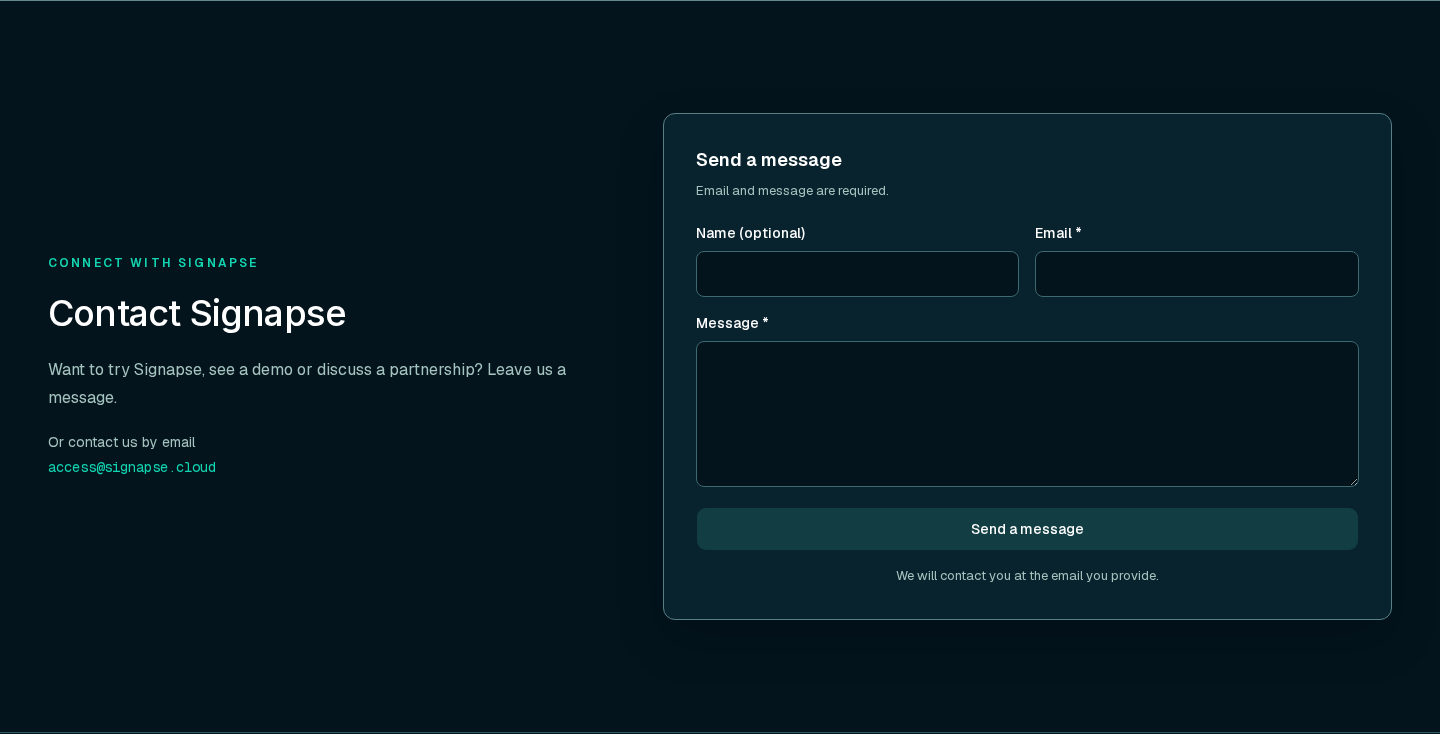
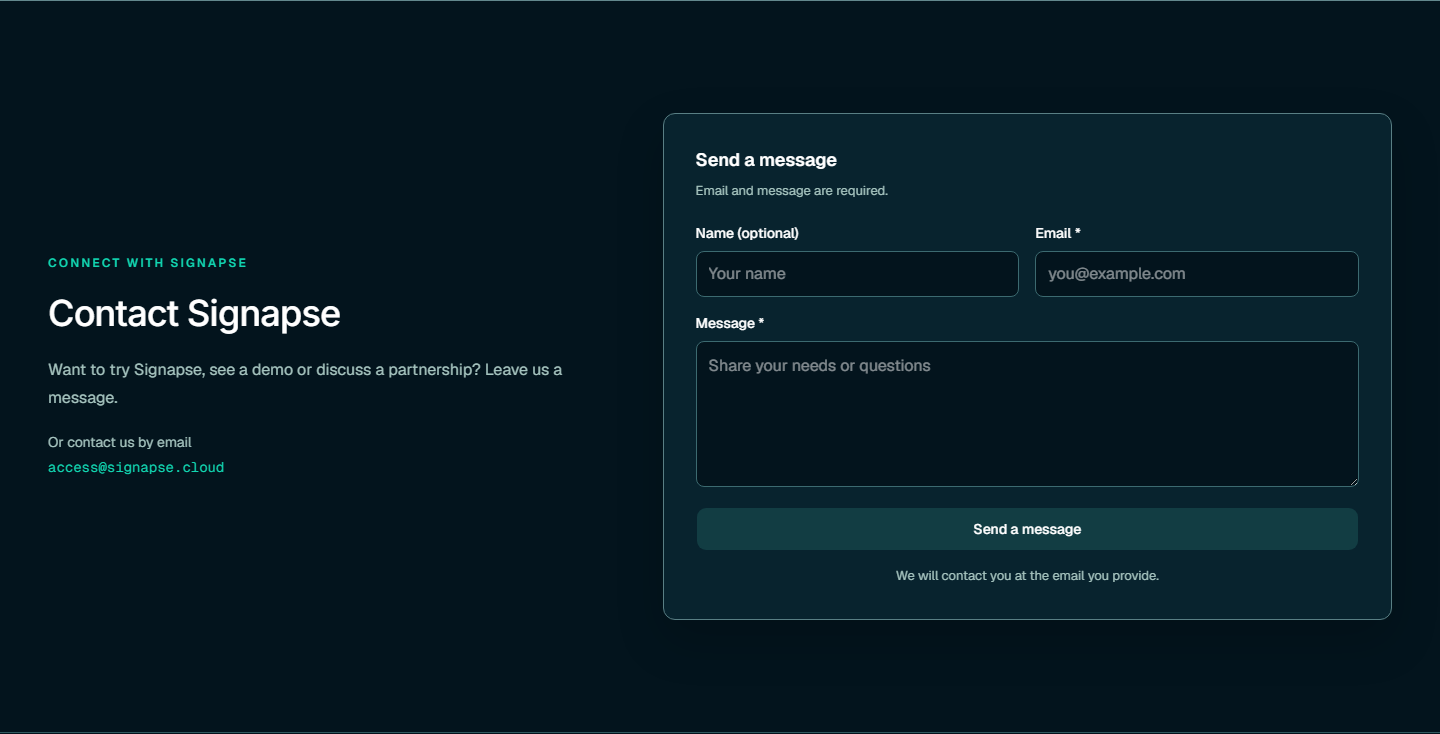
feat: update contact form placeholders and add design implementation rules

diff --git a/tests/e2e/landing.spec.ts b/tests/e2e/landing.spec.ts
@@ -38,8 +38,11 @@ const contactCopy = {
   vi: {
     title: 'Gửi lời nhắn',
     name: 'Tên (không bắt buộc)',
+    namePlaceholder: 'Tên của bạn',
     email: 'Email *',
+    emailPlaceholder: 'ban@example.com',
     message: 'Lời nhắn *',
+    messagePlaceholder: 'Chia sẻ nhu cầu hoặc câu hỏi của bạn',
     required: 'Email và lời nhắn là bắt buộc.',
     emptyMessage: 'Vui lòng nhập lời nhắn.',
     invalidEmail: 'Vui lòng nhập địa chỉ email hợp lệ.',
@@ -57,8 +60,11 @@ const contactCopy = {
   en: {
     title: 'Send a message',
     name: 'Name (optional)',
+    namePlaceholder: 'Your name',
     email: 'Email *',
+    emailPlaceholder: 'you@example.com',
     message: 'Message *',
+    messagePlaceholder: 'Share your needs or questions',
     required: 'Email and message are required.',
     emptyMessage: 'Please enter a message.',
     invalidEmail: 'Please enter a valid email address.',
@@ -966,6 +972,7 @@ for (const locale of ['vi', 'en'] as const) {
     await openContactForm(page, locale);
 
     const section = page.locator('#access');
+    const name = page.getByLabel(copy.name, { exact: true });
     const email = page.getByLabel(copy.email, { exact: true });
     const message = page.getByLabel(copy.message, { exact: true });
     const submit = page.getByRole('button', { name: copy.title, exact: true });
@@ -974,15 +981,18 @@ for (const locale of ['vi', 'en'] as const) {
       locale === 'vi' ? 'Liên hệ với Signapse' : 'Contact Signapse',
     );
     await expect(page.getByRole('heading', { name: copy.title })).toBeVisible();
-    await expect(page.getByLabel(copy.name, { exact: true })).toHaveValue('');
+    await expect(name).toHaveValue('');
     await expect(email).toHaveValue('');
     await expect(message).toHaveValue('');
+    await expect(name).toHaveAttribute('placeholder', copy.namePlaceholder);
+    await expect(email).toHaveAttribute('placeholder', copy.emailPlaceholder);
+    await expect(message).toHaveAttribute(
+      'placeholder',
+      copy.messagePlaceholder,
+    );
     await expect(email).toHaveAttribute('maxlength', '254');
     await expect(email).toHaveAttribute('required', '');
-    await expect(page.getByLabel(copy.name, { exact: true })).toHaveAttribute(
-      'maxlength',
-      '100',
-    );
+    await expect(name).toHaveAttribute('maxlength', '100');
     await expect(message).toHaveAttribute('maxlength', '5000');
     await expect(section).toContainText(copy.required);
 

diff --git a/src/i18n/messages.ts b/src/i18n/messages.ts
@@ -421,8 +421,11 @@ export const vi = {
       formTitle: 'Gửi lời nhắn',
       submit: 'Gửi lời nhắn',
       nameLabel: 'Tên (không bắt buộc)',
+      namePlaceholder: 'Tên của bạn',
       emailLabel: 'Email *',
+      emailPlaceholder: 'ban@example.com',
       messageLabel: 'Lời nhắn *',
+      messagePlaceholder: 'Chia sẻ nhu cầu hoặc câu hỏi của bạn',
       requiredFields: 'Email và lời nhắn là bắt buộc.',
       intent: 'Chúng tôi sẽ liên hệ qua email bạn cung cấp.',
       submitting: 'Đang gửi…',
@@ -891,8 +894,11 @@ export const en: Dictionary = {
       formTitle: 'Send a message',
       submit: 'Send a message',
       nameLabel: 'Name (optional)',
+      namePlaceholder: 'Your name',
       emailLabel: 'Email *',
+      emailPlaceholder: 'you@example.com',
       messageLabel: 'Message *',
+      messagePlaceholder: 'Share your needs or questions',
       requiredFields: 'Email and message are required.',
       intent: 'We will contact you at the email you provide.',
       submitting: 'Sending…',

diff --git a/src/components/landing/landing-contact-form.tsx b/src/components/landing/landing-contact-form.tsx
@@ -201,6 +201,7 @@ export function LandingContactForm({
                 name="name"
                 type="text"
                 autoComplete="name"
+                placeholder={copy.namePlaceholder}
                 maxLength={producerLimits.name}
                 value={name}
                 aria-invalid={Boolean(errors.name)}
@@ -230,6 +231,7 @@ export function LandingContactForm({
                 type="email"
                 autoComplete="email"
                 inputMode="email"
+                placeholder={copy.emailPlaceholder}
                 maxLength={producerLimits.email}
                 required
                 value={email}
@@ -266,6 +268,7 @@ export function LandingContactForm({
               id="contact-message"
               name="message"
               rows={5}
+              placeholder={copy.messagePlaceholder}
               maxLength={producerLimits.message}
               required
               value={message}

diff --git a/docs/design.md b/docs/design.md
@@ -1,0 +1,197 @@
+# Quy tắc thiết kế cho implementation landing
+
+Tài liệu tổng hợp rule UI của `signapse-landing`, dùng khi triển khai hoặc review visual, layout, interaction và copy. Khảo sát ngày **2026-10-07** trên landing `8c5bd7d`, planning `5d0fb67` và FE `signapse-ui` `5393a49`.
+
+Đặt tại `docs/design.md` để đi cùng [architecture](architecture.md) và [verification](verification/README.md). Đây là tài liệu thực thi; requirement/design, Pen, copy contract và ADR vẫn thuộc planning. Các bảng số đo bên dưới ghi nhận source hiện hành, không tự tạo contract mới hoặc chứng nhận mọi state đã được kiểm thử.
+
+## Nguồn và cách áp dụng
+
+| Nguồn | Vai trò |
+| --- | --- |
+| [Landing contract](../../signapse-planing/ui-design/references/landing/LANDING.md) | Quy tắc được duy trì tại planning về composition, navigation, demo, responsive và accessibility. |
+| [Design handoff](../../signapse-planing/ui-design/references/landing/README.md) và [Pen handoff](../../signapse-planing/ui-design/pen/landing/README.md) | Design/revision, Foundation, shared compositions, interaction states và reference của task. |
+| [ADR-0011](../../signapse-planing/docs/adr/landing/0011-fixed-branded-public-landing-composition.md) và [ADR-0010](../../signapse-planing/docs/adr/landing/0010-use-progressive-webgl-for-landing-context-figure.md) | Palette cố định và progressive WebGL. |
+| [Landing composition](../src/components/landing/LandingPage.astro), [landing CSS](../src/components/landing/landing-page.module.css), [showcase CSS](../src/components/landing/landing-feature-showcase.module.css) | Bố cục, token và treatment đang triển khai. |
+| [Global styles](../src/styles/global.css), [font faces](../src/styles/fonts.css), [dictionary](../src/i18n/messages.ts) | Font roles, copy VI/EN, fixture labels, accessible text và metadata. |
+| [FE design](../../signapse-ui/docs/design/DESIGN.md) | Tham khảo hierarchy, semantic tokens, trạng thái và accessibility; không áp dụng nguyên bộ dashboard rules cho landing. |
+
+Áp dụng requirement/AC và design revision được giao cùng contract tại planning. Nếu chúng xung đột với tài liệu này hoặc code, ghi rõ điểm lệch và đưa về coordinator/planning; không suy ra requirement từ giao diện đang chạy. [Design-system review](../../signapse-planing/ui-design/pen/landing/design-system-review.md) giữ lịch sử finding trước sửa; dùng handoff hiện hành để xác định trạng thái mới.
+
+## Ngôn ngữ visual
+
+- Giữ hierarchy rõ: heading → supporting copy → action → proof. Hero có một primary Contact action và một proof AI; không thêm claim, badge, card hoặc section chỉ để lấp khoảng trống.
+- Nội dung sản phẩm và proof là phần chính. Texture glyph, gradient và figure hỗ trợ bối cảnh, không cạnh tranh với chữ hoặc giả làm dữ liệu thị trường live.
+- Dark/light là nhịp composition cố định: Header, Hero/capability, Audience, contact và Footer dùng dark family; Showcase và Providers dùng light family.
+- Surface, border và shadow thể hiện nhóm nội dung hoặc control thật. Không bọc thêm card chỉ để lấy radius/shadow; giữ ngoại lệ của các giao diện sản phẩm minh họa trong scope demo.
+- Claim theo copy contract. Giữ disclaimer về phân tích/tự động hóa; không suy diễn thành cam kết lợi nhuận, dự báo giá hoặc tính năng đã hoạt động ngoài fixture.
+
+## Palette và semantic surfaces
+
+Nguồn token là `.landingRoot` trong [landing CSS](../src/components/landing/landing-page.module.css).
+
+| Token | Giá trị hiện hành | Vai trò |
+| --- | --- | --- |
+| `--landing-navy` | `#03141D` | Nền brand dark; chữ/chrome chính trên light surface. |
+| `--landing-navy-surface` | `#08232E` | Card/popover trên dark surface. |
+| `--landing-mint` | `#12D6B1` | Accent, focus và tín hiệu trên dark surface. |
+| `--landing-mint-strong` | `#006F66` | Accent/focus trên light surface. |
+| `--landing-off-white` | `#FFFFFF` | Light surface; chữ và primary action trên dark. |
+| `--landing-muted` | `#A6C4BF` | Supporting text trên dark. |
+| `--landing-boundary` | `#3C6A70` | Boundary/input và chi tiết phụ. |
+| `--landing-light-muted-surface` | `#E7E6E0` | Muted/secondary/selected treatment trên light. |
+| `--landing-light-muted-foreground` | `#565D60` | Supporting text trên light. |
+| `--landing-dark-muted-surface` | `#123D43` | Muted/secondary/selected treatment trên dark. |
+
+- Component dùng các vai trò `--background`, `--foreground`, `--card`, `--popover`, `--primary`, `--muted`, `--border`, `--input`, `--ring` và `--chart-*` do surface owner ánh xạ. Không thêm raw palette để sửa một control cục bộ.
+- Giữ `data-landing-theme="fixed-signapse"`; OS theme, class `.dark` và dashboard preference không được đổi composition hoặc bị landing đọc/ghi lại.
+- Popup render qua portal phải có palette owner riêng. Capability popup hiện mang cả `.landingRoot` và `.darkSurface`; không dựa vào kế thừa từ Hero sau khi ra ngoài DOM của section.
+- Header chọn surface theo section nằm bên dưới, logo theo surface. Figure/Three colors cũng theo section; không thêm theme provider của dashboard.
+- Provider brand colors, Telegram chrome và màu trạng thái/proof hiện có là treatment cục bộ. Không đưa chúng vào palette chung hoặc đổi toàn bộ token để sửa một demo. Trạng thái luôn có text/icon/pattern bổ sung cho màu.
+
+## Typography
+
+Fonts tự host, có subset tiếng Việt và fallback metrics trong [fonts.css](../src/styles/fonts.css); giữ `font-display: swap` và license. `--font-sans` cấu hình Geist, `--font-mono` cấu hình Geist Mono; `--font-display` cấu hình Inter cho `.landingDisplayHeading` và showcase titles. Renderer có mono/fallback treatment riêng trong CSS của demo.
+
+Các số đo sau là baseline trong source; px được quy đổi với root font 16 px, còn implementation dùng rem/responsive classes. Không dùng size của chữ minh họa làm default cho trang public.
+
+| Vai trò | Treatment hiện hành |
+| --- | --- |
+| Hero H1 | Inter; 36 → 60 → 72 px tại base/`sm`/`lg`; line-height `1.02`. |
+| Display heading | `.landingDisplayHeading`: weight `510`, letter-spacing `-0.022em`; size/line-height theo từng section. |
+| Audience heading | 36 → 48 → 60 px; line-height `1.04`. |
+| Providers/contact heading | 30 → 36 px; `leading-tight`. |
+| Hero/Audience supporting copy | Geist; 16 → 18 px; line-height 28 px. |
+| Page eyebrow | 12 px, semibold, uppercase, tracking `0.18em`. |
+| Showcase title/body | Title 18 px, 20 px ở desktop enhanced; body 15 px; line-height `1.35`/`1.6`; measure tối đa `22rem`. |
+| Telegram form minh họa | Label 11 px, control text 12 px, control height 28 px; chỉ dùng trong demo inert. |
+
+Heading hierarchy theo nội dung: một H1 ở Hero, H2 cho các vùng chính, heading nhỏ hơn cho nội dung con. Giữ text wrap theo container và đủ copy VI/EN; không scale toàn bộ demo, ép mọi heading cùng size hoặc dùng truncate để che vấn đề responsive.
+
+## Spacing, geometry và chrome
+
+| Vai trò | Baseline source |
+| --- | --- |
+| Header height | `--landing-header-height: 4.5rem` (72 px). |
+| Landing control | `--landing-control-height: 2.75rem` (44 px); control radius `0.5rem` (8 px). |
+| Card/popover token | Radius `0.75rem` (12 px), padding token `1.5rem` (24 px); một số composition có treatment riêng. |
+| Page gutters | 16 / 24 / 32 px tại base / `sm` / `lg`. |
+| Header container | Tối đa `120rem`. |
+| Hero/capability/Showcase/Audience/Providers container | Tối đa `100rem`; inner showcase cap `79rem`. |
+| Contact container | Tối đa `88rem`; copy measure `34rem`. |
+| Footer container | `max-w-7xl` (`80rem`). |
+| Section spacing | Showcase/Audience/Providers 64 → 96 px theo trục dọc; contact 80 → 112 px. Hero có spacing riêng theo header và viewport. |
+
+Các cap trên ghi nhận implementation, không phải một container mới áp cho mọi trang. Pen Public Page Starter có container mặc định 1280 px; khi task chỉ định composition/revision khác, đối chiếu reference và ghi nhận lệch thay vì tự thay cap của toàn landing.
+
+Ưu tiên reuse spacing/treatment tại composition đang sửa. Không làm tròn geometry, icon/path hoặc mọi giá trị lẻ về bội số 4 chỉ để tạo scale. Giữ border mảnh, shadow có mức độ; riêng Telegram chỉ outer browser có shadow, hai panel bên trong không tạo thêm tầng shadow.
+
+## Composition và responsive
+
+Nguồn composition là [LandingPage.astro](../src/components/landing/LandingPage.astro), [Audience](../src/components/landing/landing-audience-section.tsx) và [Footer](../src/components/landing/LandingFooter.astro).
+
+| Thứ tự | Surface | Quy tắc |
+| --- | --- | --- |
+| 1 | Header | Logo, ba nhóm navigation, Contact, dashboard CTA và locale; bám trên cùng bằng `position: fixed`, đổi surface theo section. |
+| 2 | Hero `#top` | H1/copy/Contact/proof AI, Context Figure và texture decorative; một cột ở màn hẹp, hai cột từ `lg`. |
+| 3 | Capability `#capability-strip` | Năm capability trong cuối Hero; detail/popover không đổi chiều cao Hero. |
+| 4 | Showcase `#showcase` | Knowledge Graph → Market Chart → AI Conversation → Scheduled Telegram; mỗi bước giữ copy và proof bằng code. |
+| 5 | Audience `#audiences` | Bốn lựa chọn trader/analyst/strategy developer/team & fund. Mobile đặt figure ngay sau lựa chọn active; no-JS có đủ nội dung qua fallback. |
+| 6 | Providers `#trust` | Đủ OpenAI, Gemini, Anthropic, DeepSeek, Groq, Z.AI; bản lặp marquee ẩn khỏi accessibility tree. |
+| 7 | Contact `#access` | Nội dung/email bên trái, form thật bên phải khi đủ rộng; reflow một cột trên màn hẹp. |
+| 8 | Footer | Brand/copy, năm capability links, contact, dashboard, email và disclaimer. |
+
+`#access` hiện triển khai contribution form theo [SIGN-113 reference](../../signapse-planing/ui-design/pen/landing/README.md#form-liên-hệ-công-khai). Bảng baseline trong `LANDING.md` còn mô tả vùng này là Final CTA; đọc cùng phần form của contract và AC/revision được giao, không tự khôi phục nút dashboard tại đây. Header/Footer vẫn giữ dashboard CTA.
+
+Responsive dùng threshold theo từng surface; không coi tất cả là một breakpoint desktop chung.
+
+| Ngưỡng hiện hành | Thay đổi |
+| --- | --- |
+| Base dưới 640 px | Gutter 16 px, natural flow, CTA Hero full width, form fields một cột. |
+| `sm`: 640 px | Gutter 24 px; name/email trong contact form thành hai cột. |
+| 768 px | Capability rail và một số nhóm nội dung demo có layout rộng hơn. |
+| `lg`: 1024 px | Gutter 32 px; Hero/Audience layout desktop; showcase có thể dùng sticky enhancement. |
+| 1152 px (`72rem`) | Contact copy/form thành hai cột với tỷ lệ `0.84fr / 1.16fr`. |
+| `xl`: 1280 px | Header chuyển từ native mobile menu sang ba mega-menu và locale menu desktop. |
+| Telegram container 608 px (`38rem`) | Hai panel Signapse/Telegram nằm cạnh nhau; dưới ngưỡng xếp dọc. Đây là container query, không phải viewport breakpoint. |
+
+- Không page-level horizontal overflow. Dùng `min-width: 0`, wrap và reflow đúng surface; không che nội dung bị tràn bằng clipping để coi là đã sửa.
+- Header/menu/popup vừa viewport và cửa sổ thấp; anchor/focus có scroll margin theo header để nội dung không bị che.
+- Showcase từ 1024 px giữ copy cuộn bên trái và active stage tại cùng vị trí sticky bên phải khi có enhancement. Không dùng height threshold để tắt sticky hoặc scroll-lock.
+- Dưới 1024 px, thiếu JavaScript hoặc thiếu IntersectionObserver: mỗi copy/proof đi liên tiếp trong natural flow. Cửa sổ thấp giữ đủ nội dung; Telegram desktop content tối thiểu `31rem`, phần dư vẫn đọc được qua scroll tự nhiên.
+
+## Components, navigation và copy
+
+- Dùng anchor cho điều hướng, button cho action/selection và native disclosure cho menu fallback. Reuse [LandingActionButton](../src/components/landing/LandingActionButton.astro), `buttonVariants` và primitives trong [components/ui](../src/components/ui/); icon dùng Lucide.
+- Palette và chrome của landing nằm ở CSS module/surface owner. Giữ variants/sizes sẵn có của primitive; không sửa generic Input/Select/Button vì compact treatment của một demo hoặc sao chép wrapper từ FE.
+- Header/capability hydrate `client:load`. Header dùng `details/summary`; capability có native details trước hydration/no-JS và Base UI Popover sau hydration.
+- Desktop disclosure hỗ trợ hover, giữ popup khi pointer đi vào nội dung; keyboard Enter/Space, Escape, focus restore và outside click. Touch dùng toggle, không phụ thuộc hover. Capability chỉ mở một popup tại một thời điểm.
+- Capability anchors giữ nguyên `#knowledge-graph`, `#live-charts`, `#ai-assistant`, `#telegram`, `#strategy-coding`; menu/footer/direct hash cùng mở đúng detail. Roadmap items có nhãn disabled; chỉ bật khi destination đã được chốt.
+- Audience dùng native buttons với `aria-pressed`; direct audience hash chọn đúng option. Selection và scroll không tự cướp focus.
+- Dashboard/Articles dùng `appHref()` từ [routing.ts](../src/i18n/routing.ts): `{PUBLIC_APP_ORIGIN}/{locale}/dashboard` và `{PUBLIC_APP_ORIGIN}/{locale}/articles`. Contact dẫn `#access`; email dùng [landing-access.ts](../src/components/landing/landing-access.ts). Auth nằm ở ứng dụng đích.
+- `/vi`, `/en` và root entry VI dùng `SUPPORTED_LOCALES`. Locale switch giữ query và chỉ những hash trong `SUPPORTED_LANDING_HASHES`; không mặc định giữ mọi section/audience hash, không ghi cookie locale. Links giữ `lang`, `hreflang`, `aria-current` phù hợp.
+- Text, accessible names, metadata và fixture labels từ [dictionary VI/EN](../src/i18n/messages.ts), cùng typed shape. Copy tiếng Việt đúng dấu và tự nhiên; tên riêng/feature/eyebrow tiếng Anh đã được duyệt không tạo quy tắc English-only cho landing.
+- Không thêm technical implementation copy vào user flow, sửa claim từ screenshot, hoặc prefill dữ liệu mẫu của reference vào form thật.
+
+## Form liên hệ và feedback
+
+Nguồn: [contact form](../src/components/landing/landing-contact-form.tsx), nhóm `landing.contact` trong dictionary và [reference frame `RNiDl`](../../signapse-planing/ui-design/pen/landing/validation/contact-requests/landing-desktop.png). Schema/limits theo producer OpenAPI và task, không do tài liệu design này định nghĩa.
+
+Rule placeholder được bổ sung theo yêu cầu người dùng ngày **2026-10-07**, áp dụng cho các field có thể chỉnh sửa trong landing.
+
+- Giữ ba field: tên tùy chọn, email bắt buộc, lời nhắn bắt buộc; một thao tác gửi. Visible labels và required guidance tồn tại trước submit; input type/autocomplete hỗ trợ mobile và autofill.
+- Mọi field nhập text hoặc số có thể chỉnh sửa, gồm `input` và `textarea`, phải có placeholder phù hợp ngữ cảnh. Ngoại lệ: field readonly, input kỹ thuật ẩn và native control không hỗ trợ placeholder như date/time/file; demo inert không phải field nhập liệu thật.
+- Placeholder cung cấp ví dụ hoặc gợi ý ngắn, lấy từ dictionary VI/EN và không thay visible label. Hướng dẫn quan trọng vẫn nằm trong helper text riêng; kiểm placeholder khi field rỗng hoặc sau khi người dùng xóa giá trị.
+- Form bắt đầu rỗng. Giá trị mẫu trong Pen/PNG chỉ minh họa, đưa vào placeholder nếu phù hợp thay vì tự điền `value`/`defaultValue`. Form liên hệ dùng `namePlaceholder`, `emailPlaceholder` và `messagePlaceholder` trong `landing.contact`.
+- Lỗi validation nằm cạnh field, nối bằng `aria-invalid`/`aria-describedby`; submit lỗi đưa focus tới field lỗi đầu tiên. Lỗi gửi dùng `role="alert"`, thành công dùng `role="status"`.
+- Pending giữ control footprint, khóa fieldset và submit, có localized “Đang gửi…”/“Sending…” và `aria-busy`; chặn submit lặp.
+- Lỗi API/network giữ input để sửa hoặc thử lại, hiển thị recovery copy gần form. Chỉ sau response thành công mới xóa input và báo đã lưu; không thông báo thành công trước xác nhận producer.
+- Form hiện dùng `client:only="react"`. Copy/email và hướng dẫn no-JS vẫn nằm trong HTML Astro; email `access@signapse.cloud` phải dùng được khi form không khả dụng. Không suy từ rule SSR của demo rằng form hiện được SSR.
+- `PUBLIC_CONTACT_API_ORIGIN` riêng với origin ứng dụng. Consumer tests mock API; kết quả đó không chứng nhận CORS, record producer hoặc backend thực.
+
+## Demo, motion và progressive enhancement
+
+- Bốn demo giữ chung [showcase island](../src/components/landing/landing-feature-showcase.tsx). Giữ DOM/SVG renderers, fixtures/models và transcript/proof bằng code; không thay bằng ảnh, placeholder hoặc UI đơn giản làm mất proof.
+- Fixtures được nhận diện là demo; composer/form/schedule minh họa inert. Không biến playback thành gửi tin, tạo lịch hoặc giao dịch thật.
+- Step controls là buttons, `aria-current="step"`, `aria-controls` và labelled regions; không chuyển thành tablist/tabpanel. Hỗ trợ Click/Tab/Enter/Space và ArrowUp/Down/Home/End; scroll chọn bước không lấy focus.
+- Viền progress quanh badge dùng thời gian playback, không phần trăm scroll. Điều kiện chạy theo [landing-playback.ts](../src/components/landing/landing-playback.ts): `active && inView && pageVisible && !reducedMotion`.
+- Graph/Chart SSR có final frame và inspector/detail hữu ích; AI có static transcript; Telegram giữ schedule/message trong một browser frame. Runner tải chậm/lỗi vẫn giữ proof.
+- Reduced motion giữ final proof, dừng autoplay/decorative loops và marquee; không xóa nội dung để tắt animation. Pause/re-entry/timing theo [architecture](architecture.md#demo-và-playback) và model, không tự thống nhất các policy khác nhau.
+- Hero Context Figure là hai góc nhìn graph/price bổ sung, có localized summary và SVG fallback cùng footprint. Enter/Space đổi mode, arrows xoay; fine pointer hỗ trợ preview/pin/drag. Đây không phải phép biến đổi graph thành dự báo giá.
+- Context, Audience và showcase dùng `client:idle` với viewport gate nội bộ. WebGL/Three là enhancement tải khi cần; canvas/decorative geometry ẩn khỏi accessibility tree. Giữ cleanup observers, listeners, timers, frames và GPU resources.
+- Pen `Visual Placeholder` là slot cho minh họa Hero/Audience trong thư viện thiết kế, không phải yêu cầu bỏ figure hoặc code fallback đang hoạt động ở runtime.
+
+## Accessibility và assets
+
+Contract yêu cầu keyboard/touch, visible focus, semantics và fallback hữu ích. Các chỉ tiêu contrast/target sau tham khảo [FE accessibility rules](../../signapse-ui/docs/design/DESIGN.md#accessibility-and-responsive-behavior) để review, không phải tuyên bố landing đã được chứng nhận WCAG.
+
+- Review theo WCAG 2.2 AA: normal text tối thiểu `4.5:1`; large text và non-text indicators/boundaries cần thiết tối thiểu `3:1`. Kiểm trên surface thực, bao gồm hover, selected, focus và error.
+- Interactive targets đạt ít nhất `24×24` CSS px theo điều kiện WCAG; ưu tiên `44×44` cho mobile/coarse pointer. Chữ/control compact của demo inert không làm giảm kích thước control tương tác thật.
+- Một H1, heading hierarchy có thứ tự, named landmarks và skip link tới `#main-content`. Focus thấy rõ, không bị fixed/sticky surface che; icon-only control có accessible name.
+- Meaningful image có alt; decorative glyph/image/canvas ẩn đúng semantics. Live/error/status feedback dùng text và announcement phù hợp, không dựa chỉ vào màu hoặc liên tục đọc mọi frame animation.
+- Kiểm VI/EN ở desktop/tablet/mobile, cửa sổ thấp, zoom 200%, keyboard, touch, reduced motion, no-JS, WebGL unavailable và thiếu IntersectionObserver.
+- [public](../public/) chỉ chứa runtime logo/provider/icon/font/social assets; giữ NOTICE/OFL và media bytes. Logo chọn đúng dark/light surface, không theo dashboard theme.
+- Social cards 1200×630 theo locale; lang/title/description/social alt từ dictionary. Metadata/indexability theo [README](../README.md#cấu-hình), không bật indexing chỉ vì thay visual.
+- Design exports/backups ở planning; ảnh và runtime reports ở `docs/verification/`, không đưa screenshots kiểm chứng vào `public/` hoặc dùng chúng thay renderer.
+
+## Phần tham khảo từ FE
+
+| Rule FE có ích | Cách áp dụng ở landing |
+| --- | --- |
+| Hierarchy, semantic tokens, surface có vai trò | Dùng landing palette owner và composition hiện có. |
+| Reuse primitives, tránh sửa wrapper vì feature cục bộ | Dùng primitives local; ngoại lệ demo nằm trong CSS/composition của demo. |
+| Labels, placeholders theo ngữ cảnh, announced errors, pending ổn định, giữ input khi lỗi | Áp dụng cho contact form; rule placeholder bổ sung theo yêu cầu người dùng, các state theo AC/copy và producer contract. |
+| Contrast, non-color cues, keyboard/focus, responsive/reduced motion | Dùng làm tiêu chí review trên fixed dark/light sections và code proofs. |
+
+FE là dashboard có theme switching, app shell/sidebar, content-width modes, CRUD forms và quick-detail overlays. Những rule đó, preset/chrome của FE, spinner riêng và auth/localization providers không tự trở thành rule landing. Landing tiếp tục dùng Astro/static shell, islands, fonts/token local và URL integration; không thêm dependency/runtime của FE để build hoặc kiểm thử.
+
+## Review và cập nhật
+
+- [ ] Đối chiếu task/AC, contract, design revision và copy VI/EN; nêu rõ sai khác thay vì tự đổi contract theo code.
+- [ ] Giữ composition, palette ownership, typography/spacing và component reuse; kiểm cả popup qua portal và header khi đổi surface.
+- [ ] Kiểm wrap/reflow, các threshold liên quan ở cả hai phía, cửa sổ thấp và zoom; không mất nội dung/proof hoặc page overflow.
+- [ ] Kiểm keyboard/touch/Escape/focus, locale/query/hash, CTA và form states nếu bị ảnh hưởng.
+- [ ] Field text/số có thể chỉnh sửa có placeholder VI/EN đúng ngữ cảnh khi rỗng; label vẫn hiển thị và không prefill giá trị mẫu.
+- [ ] Kiểm fallback, reduced motion, playback/progress và cleanup nếu đổi figure/demo/layout.
+- [ ] Source/config: chạy `pnpm check`, `pnpm lint`, `pnpm format:check`, `pnpm build`; navigation/layout/demo chạy browser coverage liên quan, model changes chạy `pnpm test:models` theo [verification](verification/README.md).
+- [ ] Chỉ đổi tài liệu: kiểm Markdown, UTF-8/LF, links và tính đúng với source; không ghi checks/runtime chưa chạy thành evidence.
+- [ ] Cập nhật tài liệu thực thi cùng source/tests bị ảnh hưởng. Design-system/requirement/copy contract changes được chốt tại planning trước; lịch sử runtime evidence ở landing.

diff --git a/docs/verification/README.md b/docs/verification/README.md
@@ -24,6 +24,8 @@ Repo này giữ implementation và bằng chứng chạy landing; baseline đã 
 
 Model và browser tests assert hành vi thay vì dùng screenshot equality làm gate. Build có cảnh báo kích thước dynamic Three chunk; renderer chỉ được tải khi cần.
 
+Ngày **2026-10-07**, cập nhật placeholder tên/email/lời nhắn VI/EN theo yêu cầu người dùng. Node 24.21.0 / pnpm 10.34.5: check, lint, format:check và build pass; 8 browser tests liên quan pass, không retry, trên built preview với API mock. Phạm vi gồm labels/placeholders và giá trị ban đầu rỗng, validation/focus/axe, payload/201, no-JS email path, responsive 375/768/1024/1440 px và zoom 200%. Chạy lại bằng `pnpm test:browser --grep 'contact form exposes labels|contact form sends the producer|contact form keeps a useful|contact layout fits'`. Hai ảnh contact desktop được cập nhật; ảnh EN được chụp lại trên page mới sau khi đợi paint ổn định vì capture ngay sau vòng zoom chưa paint đủ nền/viền. Lượt này kiểm chứng local UI, không xác nhận backend thật hoặc hosted deployment.
+
 Lượt chuẩn bị Cloudflare ngày 2026-10-05 dùng Node 24.21.0 / pnpm 10.34.5 / Wrangler 4.143.0, public origin `https://signapse.cloud` và application origin fixture `https://app.example.test`. Browser navigation vẫn intercept app; kết quả không xác nhận dev/dashboard backend. Wrangler config pin compatibility date 2026-10-03 phù hợp runtime local. Hướng dẫn release ở [deploy signapse.cloud](../deployment/signapse-cloud.md).
 
 Hosted release ngày 2026-10-05 dùng commit `0095df9` trên `main`, application origin thực `https://dev.signapse.cloud` và noindex. [Workflow 37306184240](https://github.com/signapse-group/signapse-landing/actions/runs/37306184240) đã pass checks/build, 14 model tests và 31 browser tests trước deploy. Kiểm tra HTTP trên domain thật xác nhận HTTPS, canonical VI/EN, assets, 404, redirect slash/www/HTTP và nội dung khớp Workers. Dashboard VI mở được trong phiên Chrome đăng nhập; HTTP tự động không có session tới app trả 429. Auth/backend và các trang ứng dụng còn lại chưa được kiểm chứng.
@@ -42,7 +44,7 @@ Hosted release ngày 2026-10-07 dùng commit `2ea7124`, giữ app origin dev và
 | Locale/URL          | VI↔EN, encoded query, lang/hreflang, supported hashes; hash ngoài contract bị bỏ; không locale cookie                |
 | Capability          | Năm popover, Enter/Space/Escape/focus restore, touch toggle, deep links/footer links, noJS native details            |
 | App/contact         | Dashboard và Articles đúng origin/locale; Hero `#access`, footer mailto                                              |
-| Form liên hệ        | VI/EN validation, JSON body/locale, 201 rỗng, 400/413/415/429/500, network/body failure, duplicate submit, no-JS và responsive; API mock nằm ở consumer boundary |
+| Form liên hệ        | VI/EN labels/placeholders đúng locale và giá trị ban đầu rỗng; validation, JSON body/locale, 201 rỗng, 400/413/415/429/500, network/body failure, duplicate submit, no-JS và responsive; API mock nằm ở consumer boundary |
 | Showcase            | Scroll hai hướng, ArrowUp/Down/Home/End, buttons/focus, progress theo playback                                       |
 | Graph               | Ingestion/relationship phases, final inspector, animated incoming/restart và model order                             |
 | Chart               | Tick 500 ms, annotation trước outcome, final frame, nút đóng event detail                                            |

diff --git a/docs/README.md b/docs/README.md
@@ -7,6 +7,7 @@ Repository Astro này giữ tài liệu **thực thi landing**: kiến trúc sou
 | [README repository](../README.md)                                         | Cài đặt, chạy, cấu hình môi trường và kiểm tra.                            |
 | [Landing contract](../../signapse-planing/ui-design/references/landing/LANDING.md) | Contract được duy trì tại planning: bố cục, nội dung, navigation, demo, responsive và accessibility. |
 | [Architecture](architecture.md)                                           | Ownership theo file, hydration, playback, renderer và assets.              |
+| [Design rules](design.md)                                                 | Rule triển khai visual, tokens, typography, responsive, interaction và accessibility; tham chiếu contract tại planning. |
 | [Verification](verification/README.md)                                    | Ma trận kiểm tra trên Astro, lệnh tái tạo và bằng chứng hiện tại.          |
 | [Kế hoạch Symphony](symphony-onboarding-plan.md)                          | Khảo sát FE/planning/runtime, skills cần adapt, workflow landing và preflight/canary trên server; chưa activation. |
 | [Symphony consumer](symphony.md)                                        | Lifecycle/policy hiện hành, checker offline và bàn giao inputs cho setup server qua repo Symphony. |

diff --git a/AGENTS.md b/AGENTS.md
@@ -20,6 +20,7 @@ Use local `implement`, `code-review`, `tdd`, `diagnosing-bugs`, `accessibility` 
 
 ## Architecture
 
+- For visual, layout, interaction or copy work, read [design implementation rules](docs/design.md) alongside the assigned planning contract/design revision. This local summary does not own or replace the planning contract.
 - Astro renders static pages and HTML content; React islands own interactions. See [architecture](docs/architecture.md) for component ownership and lifecycle.
 - Routes live in src/pages/, HTML shells in src/layouts/, locales/copy in src/i18n/, shared styling/fonts in src/styles/, landing composition in src/components/landing/, and UI primitives in src/components/ui/.
 - Use SUPPORTED_LOCALES and locale helpers. Both Vietnamese and English copy must have the same typed shape. TypeScript is strict and uses the @/ alias.
